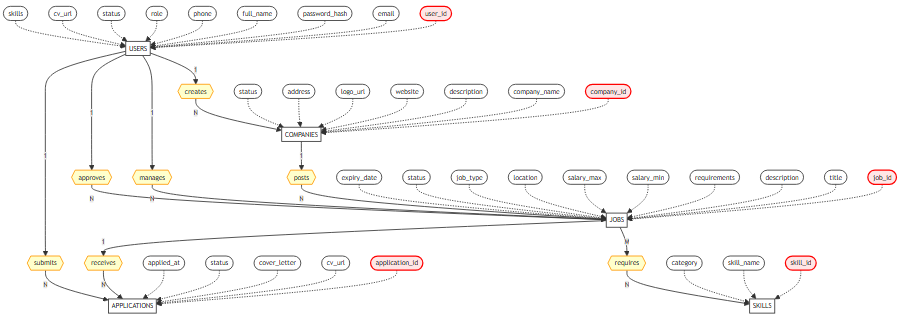
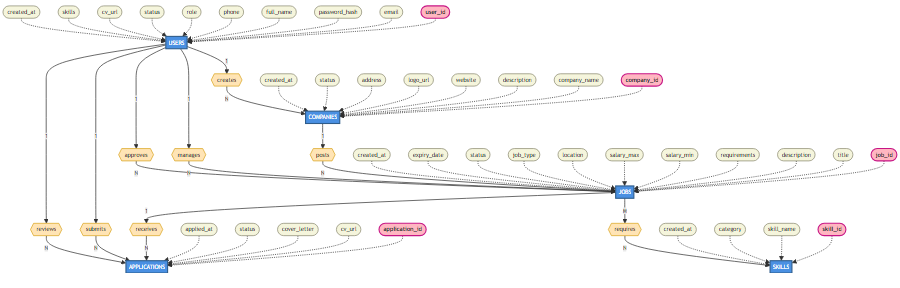
update

Changed region(s): [[0.0, 0.0, 1.0, 0.9688], [0.0311, 0.2812, 0.0622, 0.4688], [0.0311, 0.2188, 0.0622, 0.25]]

diff --git a/diagrams_full/ERD_diagram.html b/diagrams_full/ERD_diagram.html
@@ -1,0 +1,177 @@
+<!DOCTYPE html>
+<html>
+<head>
+    <meta charset="UTF-8">
+    <script type="module">
+        import mermaid from 'https://cdn.jsdelivr.net/npm/mermaid@10/dist/mermaid.esm.min.mjs';
+        mermaid.initialize({ 
+            startOnLoad: true,
+            theme: 'default',
+            securityLevel: 'loose'
+        });
+    </script>
+    <style>
+        body {
+            margin: 0;
+            padding: 40px;
+            background: white;
+            display: flex;
+            justify-content: center;
+            align-items: center;
+            min-height: 100vh;
+        }
+        .mermaid {
+            background: white;
+        }
+    </style>
+</head>
+<body>
+    <div class="mermaid">
+graph TD
+    %% ==================== USERS ENTITY ====================
+    USERS[USERS]:::entity
+    U_ID([user_id]):::key
+    U_EMAIL([email]):::attribute
+    U_PASS([password_hash]):::attribute
+    U_NAME([full_name]):::attribute
+    U_PHONE([phone]):::attribute
+    U_ROLE([role]):::attribute
+    U_STATUS([status]):::attribute
+    U_CV([cv_url]):::attribute
+    U_SKILLS([skills]):::attribute
+    U_CREATED([created_at]):::attribute
+    
+    U_ID -.-> USERS
+    U_EMAIL -.-> USERS
+    U_PASS -.-> USERS
+    U_NAME -.-> USERS
+    U_PHONE -.-> USERS
+    U_ROLE -.-> USERS
+    U_STATUS -.-> USERS
+    U_CV -.-> USERS
+    U_SKILLS -.-> USERS
+    U_CREATED -.-> USERS
+
+    %% ==================== COMPANIES ENTITY ====================
+    COMPANIES[COMPANIES]:::entity
+    C_ID([company_id]):::key
+    C_NAME([company_name]):::attribute
+    C_DESC([description]):::attribute
+    C_WEB([website]):::attribute
+    C_LOGO([logo_url]):::attribute
+    C_ADDR([address]):::attribute
+    C_STATUS([status]):::attribute
+    C_CREATED([created_at]):::attribute
+    
+    C_ID -.-> COMPANIES
+    C_NAME -.-> COMPANIES
+    C_DESC -.-> COMPANIES
+    C_WEB -.-> COMPANIES
+    C_LOGO -.-> COMPANIES
+    C_ADDR -.-> COMPANIES
+    C_STATUS -.-> COMPANIES
+    C_CREATED -.-> COMPANIES
+
+    %% ==================== JOBS ENTITY ====================
+    JOBS[JOBS]:::entity
+    J_ID([job_id]):::key
+    J_TITLE([title]):::attribute
+    J_DESC([description]):::attribute
+    J_REQ([requirements]):::attribute
+    J_SAL_MIN([salary_min]):::attribute
+    J_SAL_MAX([salary_max]):::attribute
+    J_LOC([location]):::attribute
+    J_TYPE([job_type]):::attribute
+    J_STATUS([status]):::attribute
+    J_EXP([expiry_date]):::attribute
+    J_CREATED([created_at]):::attribute
+    
+    J_ID -.-> JOBS
+    J_TITLE -.-> JOBS
+    J_DESC -.-> JOBS
+    J_REQ -.-> JOBS
+    J_SAL_MIN -.-> JOBS
+    J_SAL_MAX -.-> JOBS
+    J_LOC -.-> JOBS
+    J_TYPE -.-> JOBS
+    J_STATUS -.-> JOBS
+    J_EXP -.-> JOBS
+    J_CREATED -.-> JOBS
+
+    %% ==================== APPLICATIONS ENTITY ====================
+    APPLICATIONS[APPLICATIONS]:::entity
+    A_ID([application_id]):::key
+    A_CV([cv_url]):::attribute
+    A_COVER([cover_letter]):::attribute
+    A_STATUS([status]):::attribute
+    A_APPLIED([applied_at]):::attribute
+    
+    A_ID -.-> APPLICATIONS
+    A_CV -.-> APPLICATIONS
+    A_COVER -.-> APPLICATIONS
+    A_STATUS -.-> APPLICATIONS
+    A_APPLIED -.-> APPLICATIONS
+
+    %% ==================== SKILLS ENTITY ====================
+    SKILLS[SKILLS]:::entity
+    S_ID([skill_id]):::key
+    S_NAME([skill_name]):::attribute
+    S_CAT([category]):::attribute
+    S_CREATED([created_at]):::attribute
+    
+    S_ID -.-> SKILLS
+    S_NAME -.-> SKILLS
+    S_CAT -.-> SKILLS
+    S_CREATED -.-> SKILLS
+
+    %% ==================== RELATIONSHIPS ====================
+    R_CREATES{{creates}}:::relationship
+    R_POSTS{{posts}}:::relationship
+    R_MANAGES{{manages}}:::relationship
+    R_RECEIVES{{receives}}:::relationship
+    R_SUBMITS{{submits}}:::relationship
+    R_REQUIRES{{requires}}:::relationship
+    R_APPROVES{{approves}}:::relationship
+    R_REVIEWS{{reviews}}:::relationship
+
+    %% Recruiter creates Companies (1:N)
+    USERS -->|1| R_CREATES
+    R_CREATES -->|N| COMPANIES
+
+    %% Companies posts Jobs (1:N)
+    COMPANIES -->|1| R_POSTS
+    R_POSTS -->|N| JOBS
+
+    %% Recruiter manages Jobs (1:N)
+    USERS -->|1| R_MANAGES
+    R_MANAGES -->|N| JOBS
+
+    %% Jobs receives Applications (1:N)
+    JOBS -->|1| R_RECEIVES
+    R_RECEIVES -->|N| APPLICATIONS
+
+    %% Candidate submits Applications (1:N)
+    USERS -->|1| R_SUBMITS
+    R_SUBMITS -->|N| APPLICATIONS
+
+    %% Jobs requires Skills (M:N via Job_Skills)
+    JOBS -->|M| R_REQUIRES
+    R_REQUIRES -->|N| SKILLS
+
+    %% Admin approves Jobs (1:N)
+    USERS -->|1| R_APPROVES
+    R_APPROVES -->|N| JOBS
+
+    %% Recruiter reviews Applications (1:N)
+    USERS -->|1| R_REVIEWS
+    R_REVIEWS -->|N| APPLICATIONS
+
+    %% ==================== STYLING ====================
+    classDef entity fill:#4A90E2,stroke:#2E5C8A,stroke-width:3px,color:#fff
+    classDef attribute fill:#F5F5DC,stroke:#8B8970,stroke-width:2px
+    classDef key fill:#FFB6C1,stroke:#C71585,stroke-width:3px,font-weight:bold
+    classDef relationship fill:#FFE4B5,stroke:#DAA520,stroke-width:2px
+
+    </div>
+</body>
+</html>

diff --git a/diagrams_full/RelationalSchema_diagram.html b/diagrams_full/RelationalSchema_diagram.html
@@ -1,0 +1,110 @@
+<!DOCTYPE html>
+<html>
+<head>
+    <meta charset="UTF-8">
+    <script type="module">
+        import mermaid from 'https://cdn.jsdelivr.net/npm/mermaid@10/dist/mermaid.esm.min.mjs';
+        mermaid.initialize({ 
+            startOnLoad: true,
+            theme: 'default',
+            securityLevel: 'loose'
+        });
+    </script>
+    <style>
+        body {
+            margin: 0;
+            padding: 40px;
+            background: white;
+            display: flex;
+            justify-content: center;
+            align-items: center;
+            min-height: 100vh;
+        }
+        .mermaid {
+            background: white;
+        }
+    </style>
+</head>
+<body>
+    <div class="mermaid">
+classDiagram
+    class USERS {
+        +INT user_id PK
+        VARCHAR(255) email UK
+        VARCHAR(255) password_hash
+        VARCHAR(255) full_name
+        VARCHAR(20) phone
+        ENUM role
+        ENUM status
+        VARCHAR(500) cv_url
+        TEXT skills
+        DATETIME created_at
+    }
+
+    class COMPANIES {
+        +INT company_id PK
+        VARCHAR(255) company_name
+        TEXT description
+        VARCHAR(255) website
+        VARCHAR(500) logo_url
+        VARCHAR(500) address
+        ENUM status
+        INT created_by FK
+        DATETIME created_at
+    }
+
+    class JOBS {
+        +INT job_id PK
+        INT company_id FK
+        INT recruiter_id FK
+        VARCHAR(255) title
+        TEXT description
+        TEXT requirements
+        DECIMAL(10,2) salary_min
+        DECIMAL(10,2) salary_max
+        VARCHAR(255) location
+        ENUM job_type
+        ENUM status
+        DATE expiry_date
+        INT approved_by FK
+        DATETIME created_at
+    }
+
+    class APPLICATIONS {
+        +INT application_id PK
+        INT job_id FK
+        INT candidate_id FK
+        VARCHAR(500) cv_url
+        TEXT cover_letter
+        ENUM status
+        DATETIME applied_at
+        INT reviewed_by FK
+    }
+
+    class SKILLS {
+        +INT skill_id PK
+        VARCHAR(100) skill_name UK
+        VARCHAR(50) category
+        DATETIME created_at
+    }
+
+    class JOB_SKILLS {
+        +INT job_id PK,FK
+        +INT skill_id PK,FK
+    }
+
+    %% Relationships
+    USERS "1" --> "N" COMPANIES : creates
+    COMPANIES "1" --> "N" JOBS : posts
+    USERS "1" --> "N" JOBS : manages(recruiter)
+    USERS "1" --> "N" JOBS : approves(admin)
+    JOBS "1" --> "N" APPLICATIONS : receives
+    USERS "1" --> "N" APPLICATIONS : submits(candidate)
+    USERS "1" --> "N" APPLICATIONS : reviews(recruiter)
+    JOBS "M" --> "N" SKILLS : requires(via JOB_SKILLS)
+    JOBS "1" --> "N" JOB_SKILLS : has
+    SKILLS "1" --> "N" JOB_SKILLS : tagged_in
+
+    </div>
+</body>
+</html>
